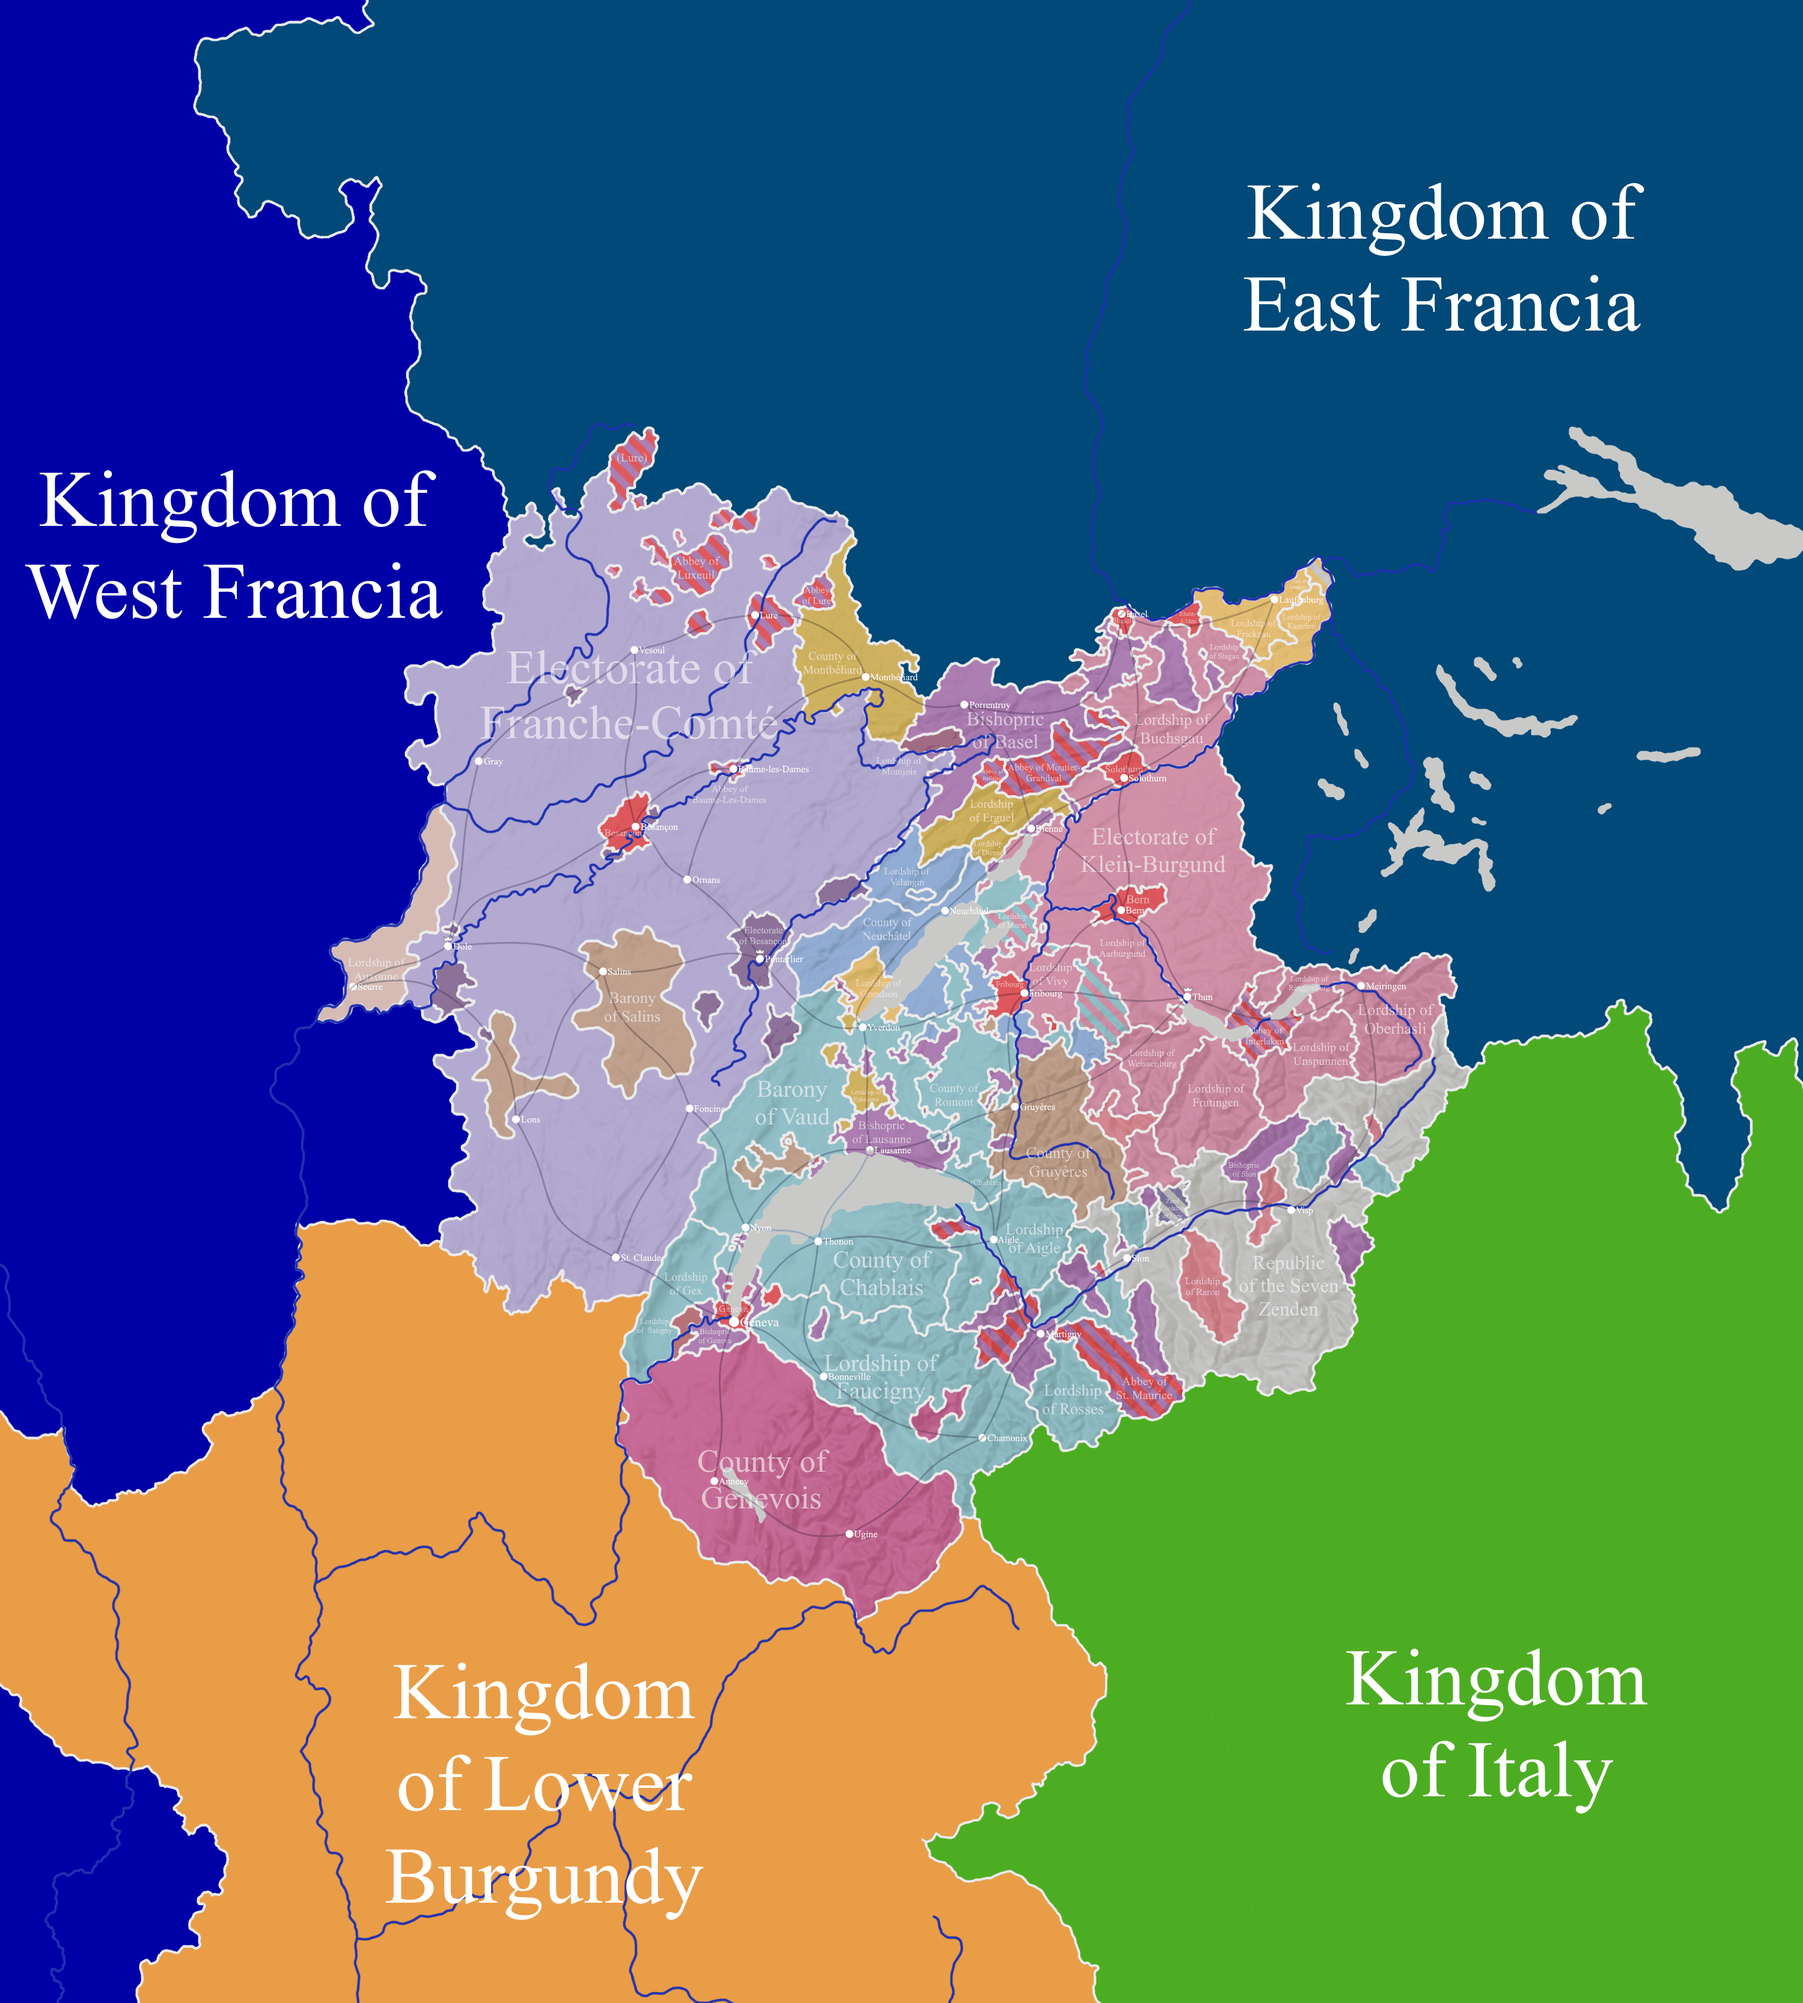
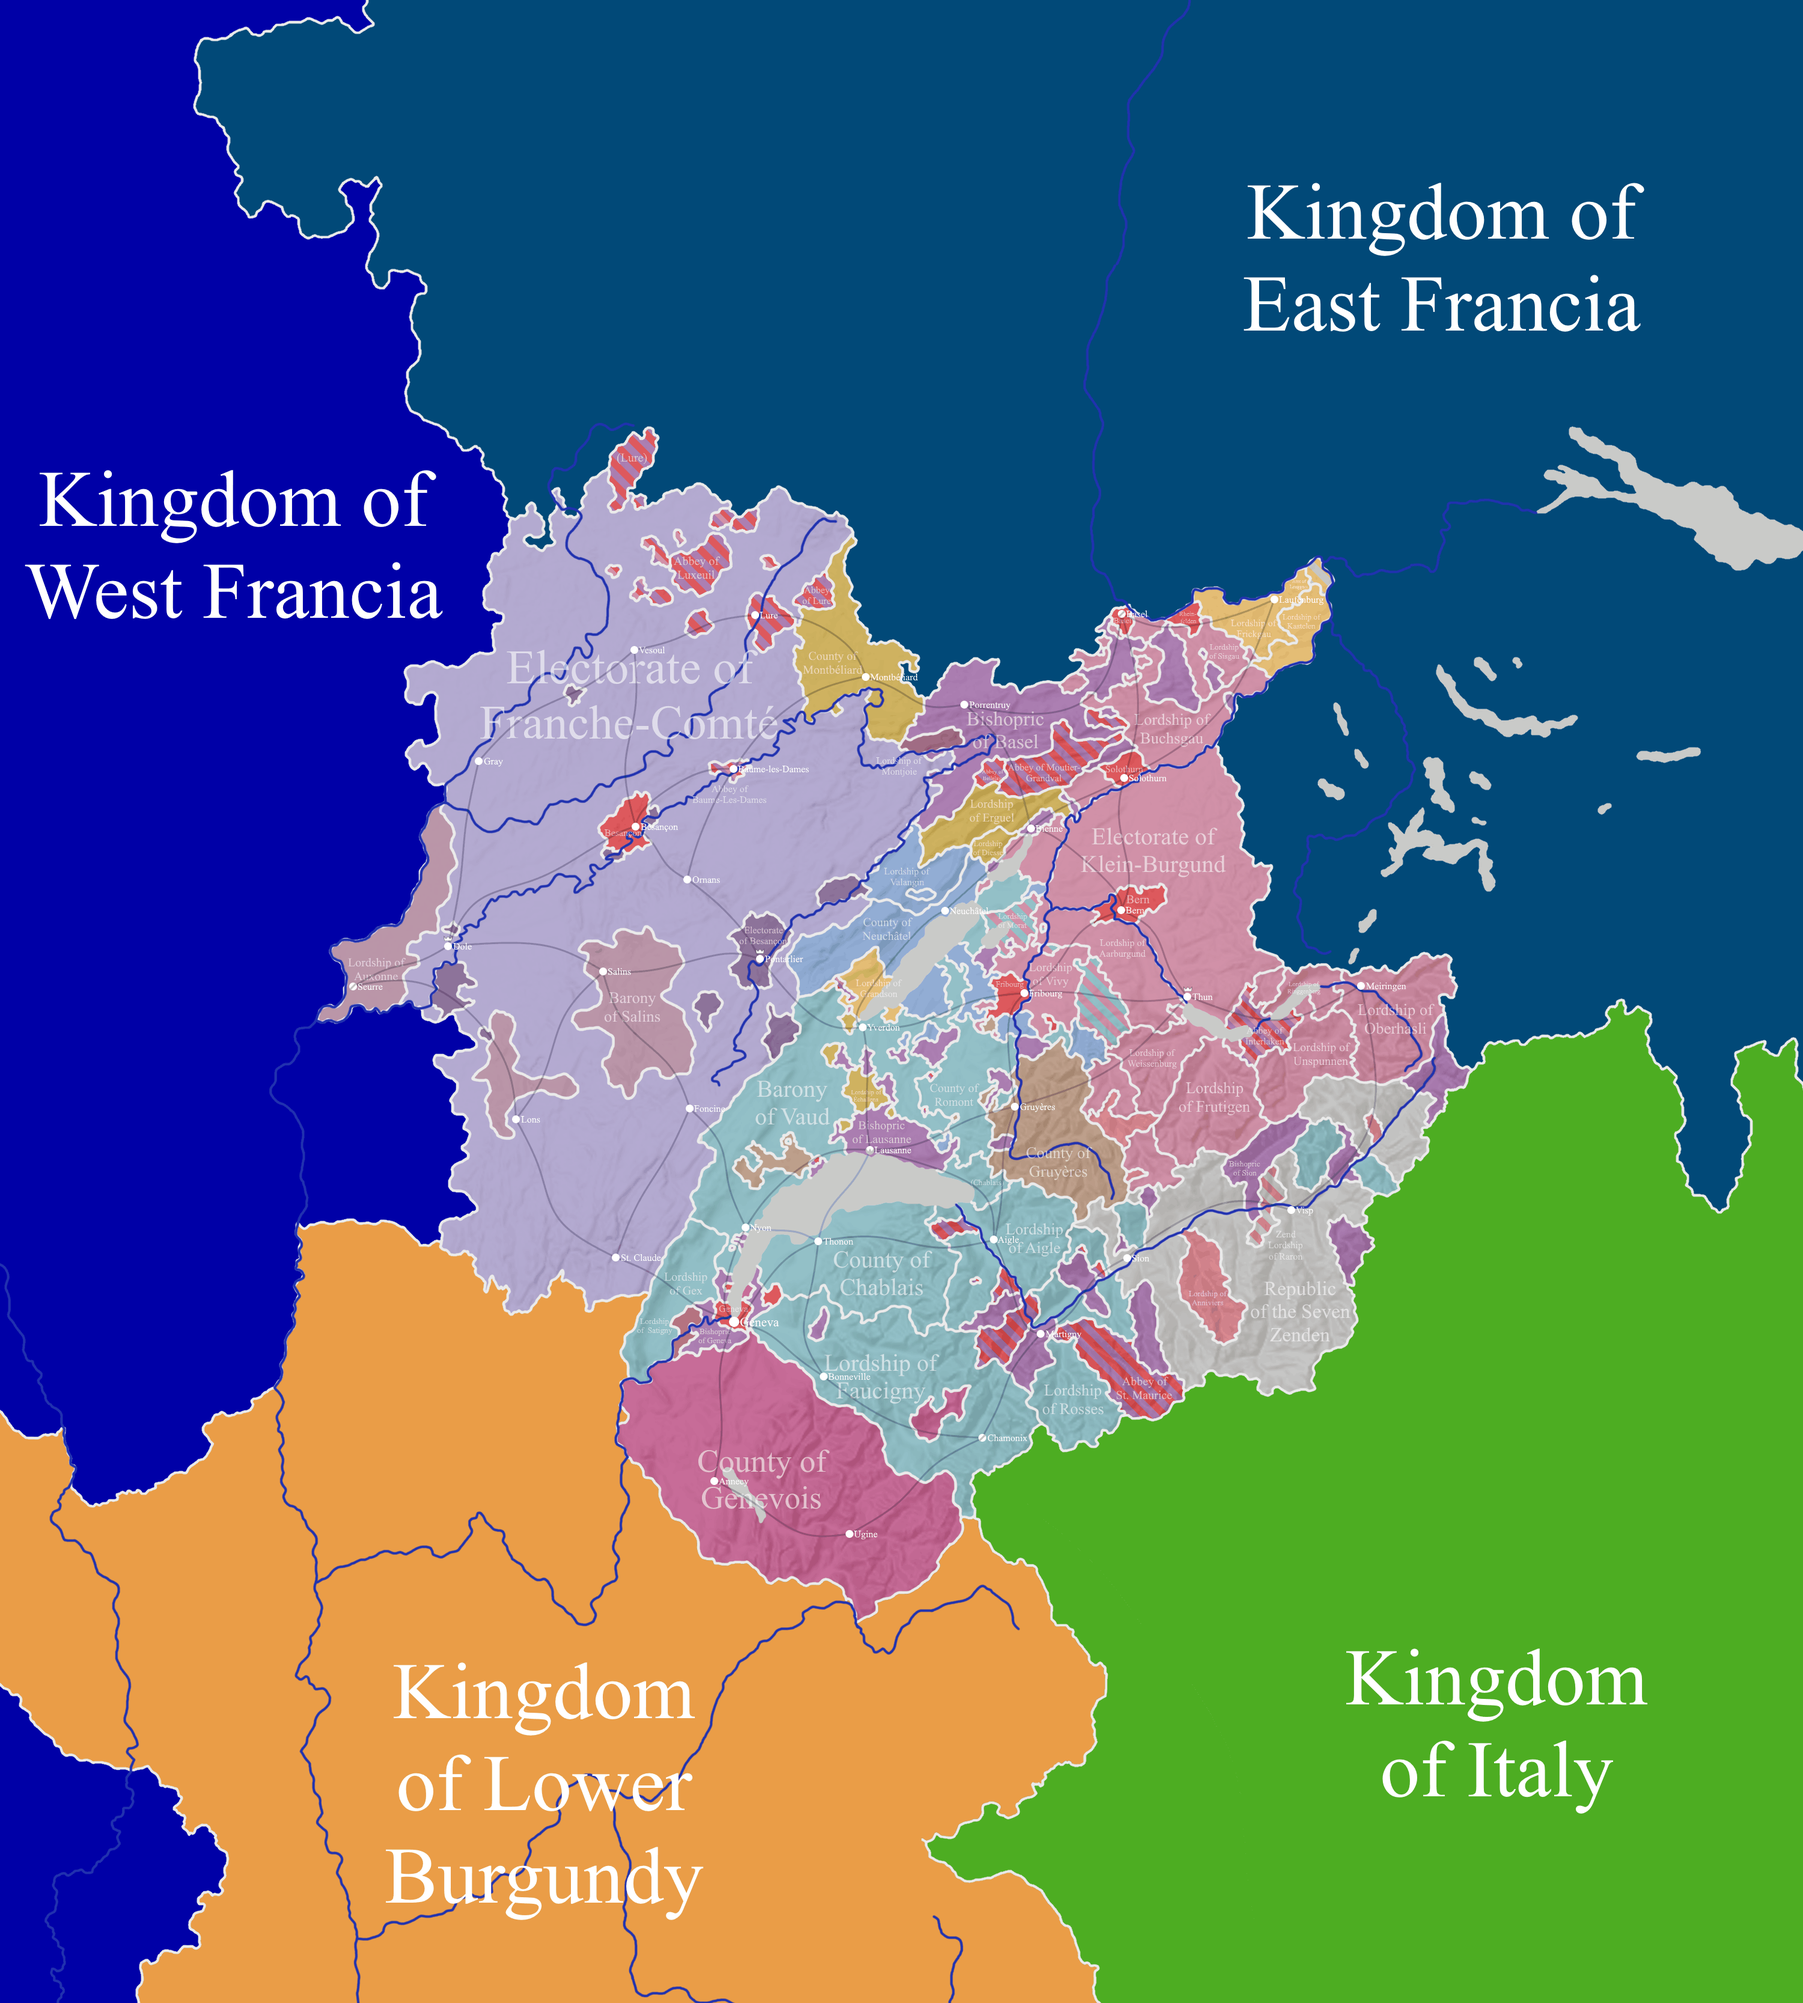
Days+

diff --git a/Generators/Arelat/Data/states.js b/Generators/Arelat/Data/states.js
@@ -138,7 +138,7 @@ types={state:[
     district:`Romandie`,
     rule:`Ecclesiastical`,
     prestige:[],
-    area:28763,
+    area:34685,
   },{
     name:`Belley`,
     title:`Bishopric`,
@@ -427,7 +427,7 @@ types={state:[
     prestige:[],
     area:19122,
   },{
-    name:`Frutingen`,
+    name:`Frutigen`,
     title:`Lordship`,
     district:`Helvetie`,
     rule:`Zähringen`,
@@ -518,13 +518,6 @@ types={state:[
     prestige:[],
     area:82572,
   },{
-    name:`Auxonne`,
-    title:`Lordship`,
-    district:`Franche-Comté`,
-    rule:`Bâgé`,
-    prestige:[],
-    area:22501,
-  },{
     name:`Valentinois`,
     title:`County`,
     district:`Drôme`,
@@ -607,7 +600,7 @@ types={state:[
     district:`Romandie`,
     rule:`Fenis`,
     prestige:[],
-    area:34482,
+    area:32984,
   },{
     name:`Valangin`,
     title:`Lordship`,
@@ -630,13 +623,6 @@ types={state:[
     prestige:[],
     area:40370,
   },{
-    name:`Salins`,
-    title:`Barony`,
-    district:`Franche-Comté`,
-    rule:`Gruyères`,
-    prestige:[],
-    area:41032,
-  },{
     name:`Orange`,
     title:`County`,
     district:`Drôme`,
@@ -644,12 +630,12 @@ types={state:[
     prestige:[],
     area:11675,
   },{
-    name:`Raron`,
+    name:`Anniviers`,
     title:`Lordship`,
     district:`Romandie`,
     rule:`Raron`,
     prestige:[],
-    area:13986,
+    area:14352,
   },{
     name:`Forcalquier`,
     title:`County`,
@@ -663,7 +649,21 @@ types={state:[
     district:`Romandie`,
     rule:`Republic`,
     prestige:[],
-    area:112543,
+    area:109114,
+  },{
+    name:`Auxonne`,
+    title:`Lordship`,
+    district:`Franche-Comté`,
+    rule:`Chalon`,
+    prestige:[],
+    area:22501,
+  },{
+    name:`Salins`,
+    title:`Barony`,
+    district:`Franche-Comté`,
+    rule:`Chalon`,
+    prestige:[],
+    area:41032,
   },{
     name:`Briançon`,
     title:`Escarton`,
@@ -686,12 +686,12 @@ types={state:[
     prestige:[],
     area:1104,
   },{
-    name:`Fées`,
+    name:`Raron`,
     title:`Zend Lordship`,
     district:`Romandie`,
-    rule:`La Baume-Republic`,
+    rule:`Raron-Republic`,
     prestige:[],
-    area:2181,
+    area:2812,
   },{
     name:`Satigny`,
     title:`Lordship`,

diff --git a/Generators/Arelat/Data/districts.js b/Generators/Arelat/Data/districts.js
@@ -10,11 +10,11 @@ types.district=[
     },{
         name:`Helvetie`,
         region:`Transjurania`,
-        area:423724,
+        area:419910,
     },{
         name:`Romandie`,
         region:`Transjurania`,
-        area:599167,
+        area:602627,
     },{
         name:`Bresse`,
         region:`Cisjurania`,

diff --git a/Generators/Arelat/Tool/JS/operation.js b/Generators/Arelat/Tool/JS/operation.js
@@ -84,6 +84,8 @@ class operation{
                 return [206,168,228]
             case `Montjoie`:
                 return [153,60,97]
+            case `Chalon`:
+                return [184,125,156]
             default:
                 return [150]
         }
